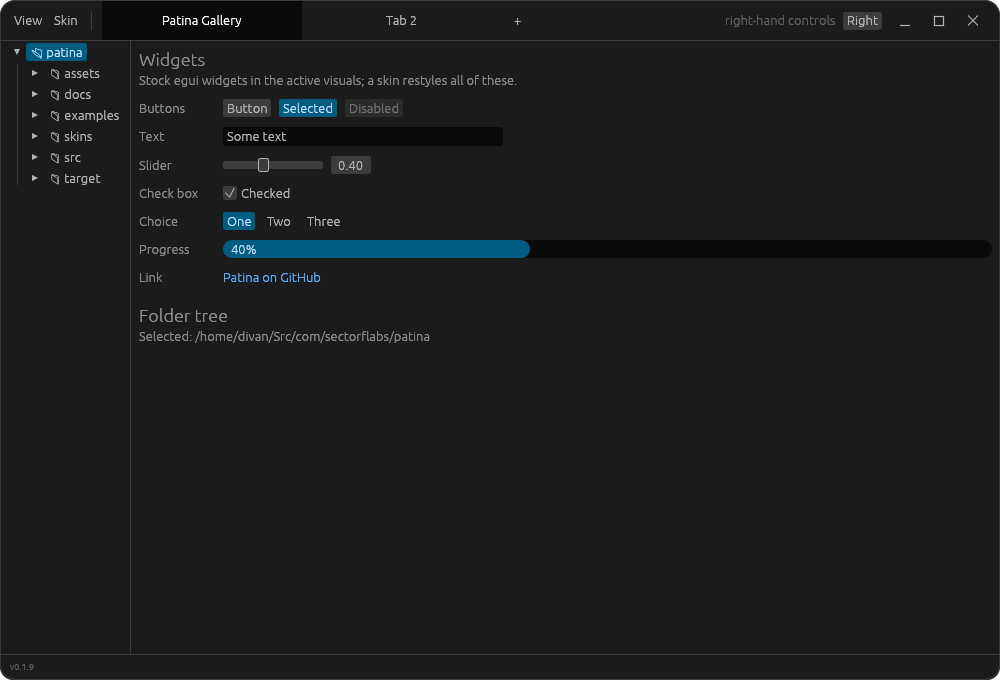
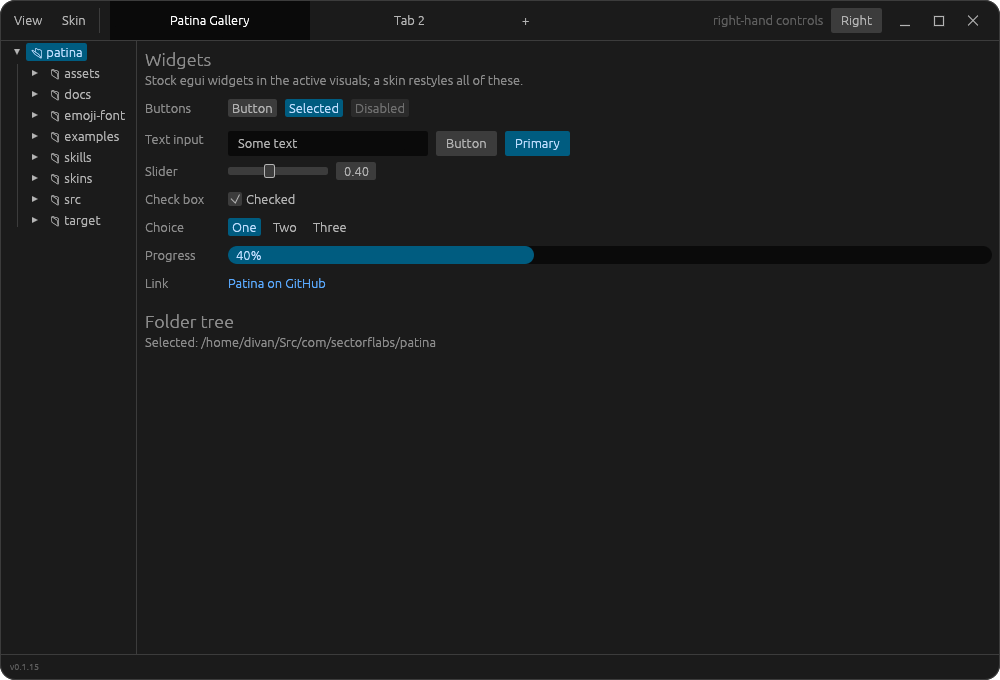
Gallery: the text input is dialog::text_edit, beside a row of dialog buttons to compare their heights
Screenshots regenerated.

diff --git a/examples/gallery.rs b/examples/gallery.rs
@@ -289,8 +289,19 @@ impl Gallery {
                     let _ = ui.add_enabled(false, egui::Button::new("Disabled"));
                 });
                 ui.end_row();
-                ui.label("Text");
-                ui.text_edit_singleline(&mut self.text);
+                ui.label("Text input");
+                ui.horizontal(|ui| {
+                    // Beside a row of dialog buttons, to compare their heights: an
+                    // input is a button's size (ADR-0034).
+                    ui.add(
+                        patina::dialog::text_edit(ui, &mut self.text)
+                            .hint_text("Text input")
+                            .desired_width(200.0),
+                    );
+                    patina::dialog::buttons(ui);
+                    let _ = ui.button("Button");
+                    let _ = ui.add(patina::dialog::primary(ui, "Primary"));
+                });
                 ui.end_row();
                 ui.label("Slider");
                 ui.add(egui::Slider::new(&mut self.value, 0.0..=1.0));
